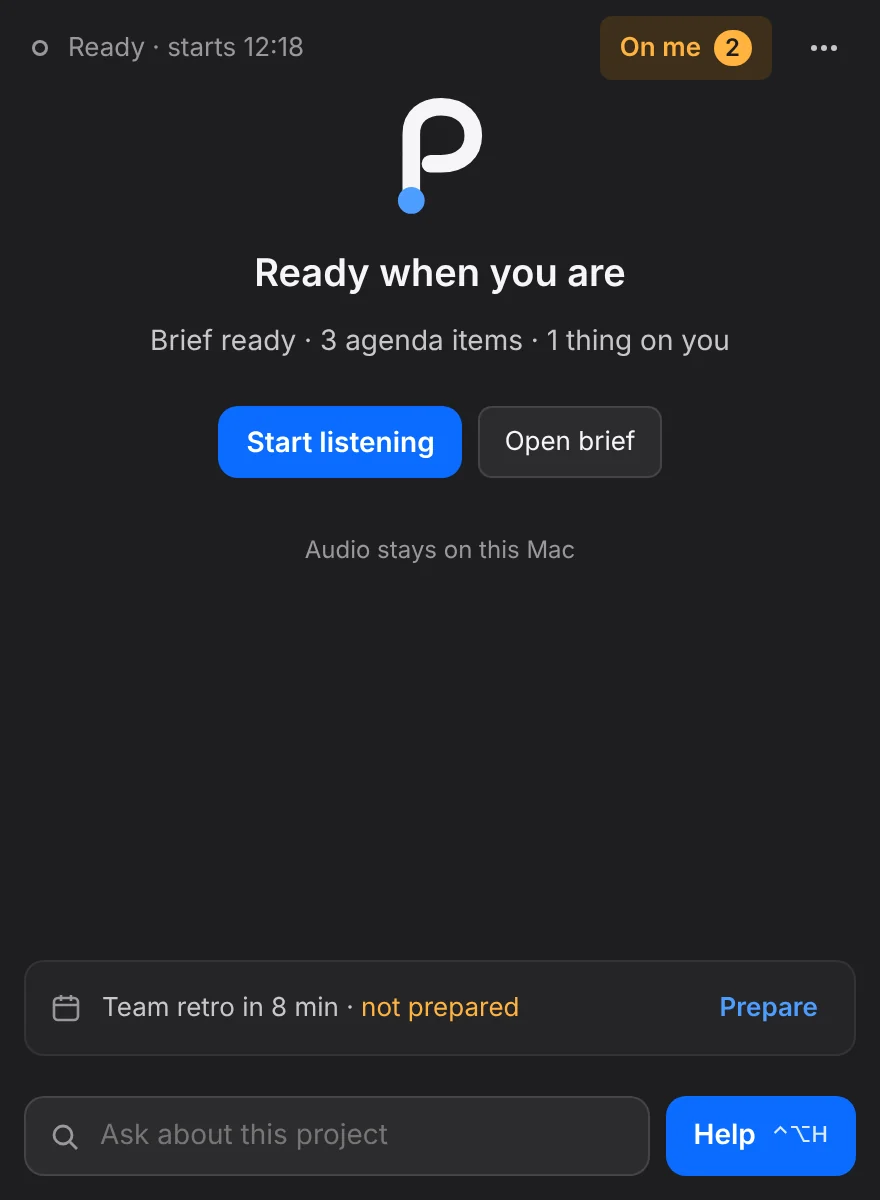
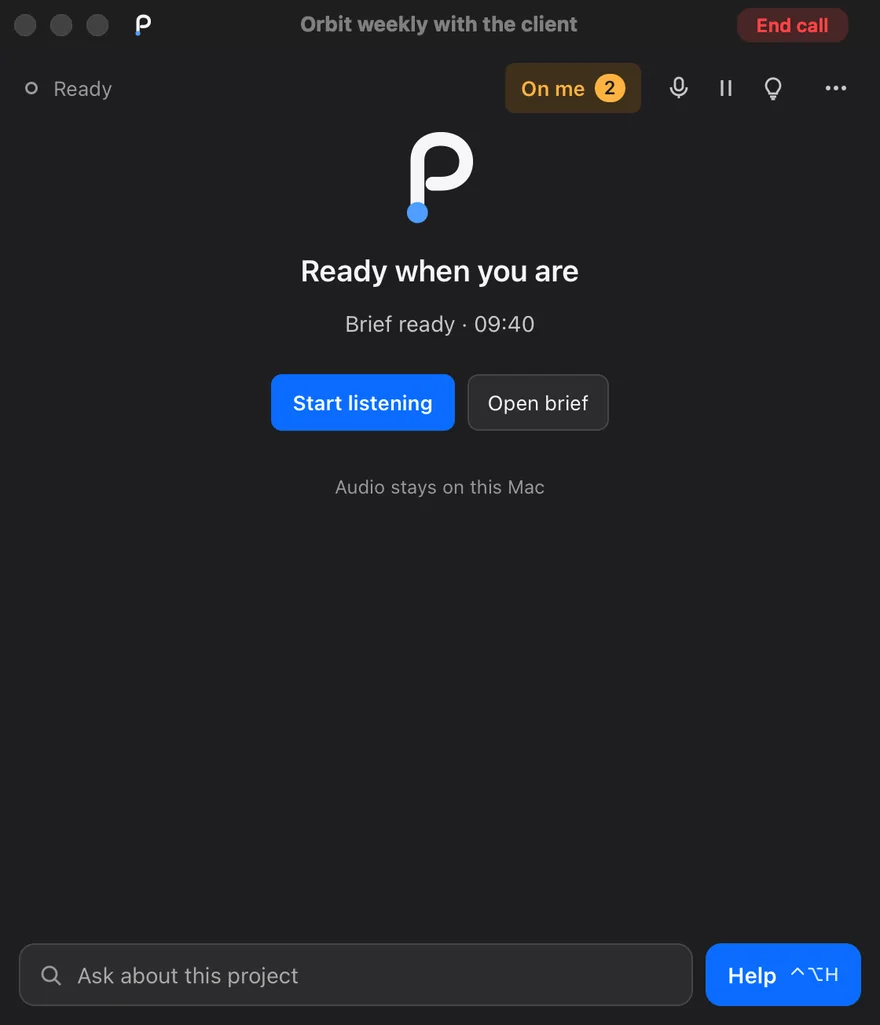
Pacenote 0.8.1 on the site
- New tips window screenshots from the app (top bar with mic, pause and
  proactive tips), EN and UK, both themes
- No mention of the old product name; status beta 0.8.1
- Changelog: 0.8.0 and 0.8.1 entries
- Download buttons point to Pacenote.dmg

Claude-Session: https://claude.ai/code/session_01YaXsSCtLqcqaKJL6Ng7Fga

diff --git a/src/content/pages/uk/changelog.md b/src/content/pages/uk/changelog.md
@@ -12,7 +12,8 @@ facts:
 
 | Версія | Дата | Що змінилось |
 |---|---|---|
-| Pacenote (раніше Live Tips) | 2026-10-28 | **Live Tips тепер Pacenote**, ваш штурман на дзвінках: нова назва, лого і [сторінка](/uk/pacenote/) у власному бренді, з дизайном 0.8 на демо-даних. Старі посилання `/live-tips/` ведуть на нові сторінки. Реліз 0.7.5 ще має стару назву; завантаження, репозиторій і файл скіла лишаються з тими самими іменами. |
+| Pacenote 0.8.1 beta | 2026-10-28 | **Вікно підказок:** мікрофон, пауза і проактивні підказки трьома іконками у верхній смузі, стан видно з першого погляду, комбінація клавіш у підказці над кнопкою. **Нова комбінація** Control-Option-L для проактивних підказок. |
+| Pacenote 0.8.0 beta | 2026-10-28 | **Pacenote**, ваш штурман на дзвінках: нова назва, лого і [сторінка](/uk/pacenote/), нове вікно підказок, Home, одна форма дзвінка, онбординг у чотири кроки і нові функції до, під час і після дзвінка. |
 | Live Tips 0.7.5 beta | 2026-10-28 | **Виправлено:** підготовка регулярної зустрічі позначала підготовленими всі її дати; тепер лише ту, для якої зроблена (або найближчу). |
 | Live Tips 0.7.4 beta | 2026-10-28 | **Лог правок:** кожна правка (картки, On me, підготовка, імена спікерів, назва дзвінка) записується, і кожна нова підготовка вчиться на правках цієї зустрічі і проєкту (скіл v56). **Без дублювання зустрічей:** дзвінок, що записується, не показується як наступний. **Хто що казав:** (i) біля голосу в Speakers показує його фрази. **Поверх усіх вікон** повернулось шпилькою в заголовку. Для регулярної зустрічі пропонуються спікери попередніх. Виправлення після QA. |
 | Live Tips 0.7.3 beta | 2026-10-28 | **Виправлено:** Start call з нової зустрічі календаря був без проєкту і з неактивною кнопкою. Тепер кнопка відкриває список проєктів і пояснює чому, а зустріч отримує проєкт, який востаннє використовувався з її календарем. |

diff --git a/src/content/pages/uk/pacenote.md b/src/content/pages/uk/pacenote.md
@@ -7,7 +7,7 @@ facts:
   - { k: Звук, v: "Лишається на вашому Маку" }
   - { k: Вартість, v: "Застосунок безкоштовний, Claude близько $0.2-0.8 за дзвінок" }
   - { k: Нотатки йдуть у, v: "Notion і папку проєкту" }
-  - { k: Статус, v: "бета 0.7.5, 0.8 у роботі" }
+  - { k: Статус, v: "бета 0.8.1" }
 ---
 
 <div class="aimix">
@@ -33,7 +33,7 @@ facts:
 <p class="card__tag">Для більшості</p>
 <h3 class="card__title">Pacenote для Мака</h3>
 <p class="card__text">Застосунок у рядку меню. Власний API-ключ Claude, жодного чату, який треба тримати відкритим під час дзвінка. Setup сам ставить модель розпізнавання.</p>
-<div class="btns"><a class="btn btn--primary" href="https://github.com/bodco/live-tips/releases/latest/download/LiveTips.dmg" download>Завантажити для Мака (.dmg)</a></div>
+<div class="btns"><a class="btn btn--primary" href="https://github.com/bodco/live-tips/releases/latest/download/Pacenote.dmg" download>Завантажити для Мака (.dmg)</a></div>
 <p class="smallprint">macOS 14.4+, Apple Silicon. Близько 2.5 ГБ локальних моделей при першому запуску. Бета без нотаризації: при першому запуску відкрийте System Settings > Privacy & Security і натисніть Open Anyway. <a href="https://github.com/bodco/live-tips/releases/latest/download/SHA256SUMS.txt">Контрольні суми SHA-256</a>.</p>
 </div>
 <div class="card">
@@ -58,7 +58,7 @@ facts:
 
 ## Як це виглядає
 
-Дизайн Pacenote 0.8 на демо-даних. Поточний реліз 0.7.5 ще виглядає як Live Tips; 0.8 приносить цей вигляд. Картинки йдуть за світлою чи темною темою сайту.
+Pacenote 0.8 на демо-даних. Картинки йдуть за світлою чи темною темою сайту.
 
 <div class="gallery">
 <figure class="ltshot ltshot--wide"><img class="ltshot__img ltshot--dark" src="/pacenote/shots/uk-tips-wide-dark.webp" alt="" loading="lazy" decoding="async" /><img class="ltshot__img ltshot--light" src="/pacenote/shots/uk-tips-wide-light.webp" alt="" loading="lazy" decoding="async" /><figcaption><b>На дзвінку.</b> Одна відповідь за раз, шрифтом, що читається з першого погляду, з фразою, яку сказати. Раніші підказки згортаються в один рядок; смужка агенди показує, що ще не підняли; транскрипт збоку підписує, хто що сказав.</figcaption></figure>

diff --git a/src/content/pages/en/pacenote.md b/src/content/pages/en/pacenote.md
@@ -7,7 +7,7 @@ facts:
   - { k: Audio, v: "Stays on your Mac" }
   - { k: Cost, v: "Free app, about $0.2-0.8 of Claude per call" }
   - { k: Notes go to, v: "Notion and your project folder" }
-  - { k: Status, v: "beta 0.7.5, 0.8 in progress" }
+  - { k: Status, v: "beta 0.8.1" }
 ---
 
 <div class="aimix">
@@ -33,7 +33,7 @@ facts:
 <p class="card__tag">For most people</p>
 <h3 class="card__title">Pacenote for Mac</h3>
 <p class="card__text">A menu bar app. Your own Claude API key, no chat to keep open during the call. Setup installs the speech model by itself.</p>
-<div class="btns"><a class="btn btn--primary" href="https://github.com/bodco/live-tips/releases/latest/download/LiveTips.dmg" download>Download for Mac (.dmg)</a></div>
+<div class="btns"><a class="btn btn--primary" href="https://github.com/bodco/live-tips/releases/latest/download/Pacenote.dmg" download>Download for Mac (.dmg)</a></div>
 <p class="smallprint">macOS 14.4+, Apple Silicon. About 2.5 GB of local models on the first run. Beta, not notarized: on the first launch open System Settings > Privacy & Security and press Open Anyway. <a href="https://github.com/bodco/live-tips/releases/latest/download/SHA256SUMS.txt">SHA-256 checksums</a>.</p>
 </div>
 <div class="card">
@@ -58,7 +58,7 @@ Both run the same rules and the same recorder, so the tips behave the same way. 
 
 ## How it looks
 
-The Pacenote 0.8 design on demo data. The current release, 0.7.5, still looks like Live Tips; 0.8 brings this look. The pictures follow the site's light or dark theme.
+Pacenote 0.8 on demo data. The pictures follow the site's light or dark theme.
 
 <div class="gallery">
 <figure class="ltshot ltshot--wide"><img class="ltshot__img ltshot--dark" src="/pacenote/shots/tips-wide-dark.webp" alt="" loading="lazy" decoding="async" /><img class="ltshot__img ltshot--light" src="/pacenote/shots/tips-wide-light.webp" alt="" loading="lazy" decoding="async" /><figcaption><b>On the call.</b> One answer at a time, in type you can read at a glance, with the phrase to say. Earlier tips fold into one line each; the agenda bar shows what is still not raised; the transcript on the side names who said what.</figcaption></figure>

diff --git a/src/content/pages/en/changelog.md b/src/content/pages/en/changelog.md
@@ -12,7 +12,8 @@ facts:
 
 | Version | Date | What changed |
 |---|---|---|
-| Pacenote (formerly Live Tips) | 2026-10-28 | **Live Tips is now Pacenote**, your co-driver on calls: a new name, logo and [page](/pacenote/) in its own brand, with the 0.8 design on demo data. Old `/live-tips/` links lead to the new pages. Release 0.7.5 still shows the old name; the downloads, the repository and the skill file keep their names. |
+| Pacenote 0.8.1 beta | 2026-10-28 | **Tips window:** microphone, pause and proactive tips as three icons in the top bar, each with its state visible at a glance and its shortcut in the tooltip. **New shortcut** Control-Option-L for proactive tips. |
+| Pacenote 0.8.0 beta | 2026-10-28 | **Pacenote**, your co-driver on calls: a new name, logo and [page](/pacenote/), a new tips window, Home, one call form, a four-step onboarding, and new features before, during and after the call. |
 | Live Tips 0.7.5 beta | 2026-10-28 | **Fix:** a regular meeting's preparation marked every occurrence as prepared; now only the one it was made for (or the next one). |
 | Live Tips 0.7.4 beta | 2026-10-28 | **Corrections log:** every correction (cards, On me, the preparation, speaker names, the call title) is logged, and each new preparation learns from the corrections of the same meeting and project (skill v56). **No duplicate meetings:** the call being recorded never shows as the next one. **Who said what:** (i) next to a voice in Speakers shows its phrases. **Always on top** is back as a pin in the title bar. Speakers of earlier meetings are offered for a regular meeting. Fixes from a QA pass. |
 | Live Tips 0.7.3 beta | 2026-10-28 | **Fix:** Start call from a new calendar meeting had no project and a disabled button. Now the button opens the project list and says why, and a meeting gets the project last used with its calendar. |

diff --git a/src/content/pages/uk/pacenote-privacy.md b/src/content/pages/uk/pacenote-privacy.md
@@ -8,7 +8,7 @@ facts:
   - { k: Телеметрія, v: "немає" }
 ---
 
-Ця політика охоплює **Pacenote** (раніше Live Tips): мак-аппку, рекордер, який вона запускає, і однойменний скіл Cowork. Сайт і решта PM Control Tower описані в [основній політиці конфіденційності](/uk/privacy/).
+Ця політика охоплює **Pacenote**: мак-аппку, рекордер, який вона запускає, і однойменний скіл Cowork. Сайт і решта PM Control Tower описані в [основній політиці конфіденційності](/uk/privacy/).
 
 Pacenote це особистий відкритий проєкт автора, Богдана Н. ("я"). Це не хостинговий сервіс: у мене немає вашого акаунта, мого сервера чи моєї бази даних. **Ви** вирішуєте, які дзвінки він слухає і куди йдуть результати, тож щодо людей на ваших дзвінках відповідальні за їхні дані саме ви (у термінах GDPR зазвичай контролер).
 

diff --git a/src/content/pages/uk/pacenote-details.md b/src/content/pages/uk/pacenote-details.md
@@ -134,7 +134,7 @@ facts:
 Той самий цикл live tips як нативний застосунок macOS у рядку меню, без чату Cowork, що мусить працювати весь дзвінок. Він записує дзвінок на вашому Маку, там же розпізнає його через Whisper на MLX і звертається до Claude API напряму з вашим власним API-ключем, що зберігається в Keychain macOS.
 
 <div class="btns" style="margin: 8px 0 24px;">
-<a class="btn btn--primary" href="https://github.com/bodco/live-tips/releases/latest/download/LiveTips.dmg" download>Завантажити Pacenote (.dmg)</a>
+<a class="btn btn--primary" href="https://github.com/bodco/live-tips/releases/latest/download/Pacenote.dmg" download>Завантажити Pacenote (.dmg)</a>
 </div>
 
 <div class="grid" style="--min: 240px;">

diff --git a/src/content/pages/en/pacenote-privacy.md b/src/content/pages/en/pacenote-privacy.md
@@ -8,7 +8,7 @@ facts:
   - { k: Telemetry, v: "none" }
 ---
 
-This policy covers **Pacenote** (formerly Live Tips): the Mac app, the recorder it runs and the Cowork skill of the same name. The website and the rest of PM Control Tower are covered by the [main privacy policy](/privacy/).
+This policy covers **Pacenote**: the Mac app, the recorder it runs and the Cowork skill of the same name. The website and the rest of PM Control Tower are covered by the [main privacy policy](/privacy/).
 
 Pacenote is a personal open-source project of its author, Bohdan N. ("I", "me"). It is not a hosted service: there is no account with me, no server of mine and no database of mine. **You** decide which calls it listens to and where the results go, so for the people on your calls you are the one responsible for their data (in GDPR terms, usually the controller).
 

diff --git a/src/content/pages/en/pacenote-details.md b/src/content/pages/en/pacenote-details.md
@@ -134,7 +134,7 @@ A wrap-up in the chat: action items with owners and dates, new requests, your co
 The same tips loop as a native macOS app in the menu bar, without a Cowork chat running during the call. It records the call on your Mac, transcribes it there with Whisper on MLX and calls the Claude API directly with your own API key, kept in the macOS Keychain.
 
 <div class="btns" style="margin: 8px 0 24px;">
-<a class="btn btn--primary" href="https://github.com/bodco/live-tips/releases/latest/download/LiveTips.dmg" download>Download Pacenote for Mac (.dmg)</a>
+<a class="btn btn--primary" href="https://github.com/bodco/live-tips/releases/latest/download/Pacenote.dmg" download>Download Pacenote for Mac (.dmg)</a>
 </div>
 
 <div class="grid" style="--min: 240px;">

diff --git a/src/content/pages/uk/pacenote-terms.md b/src/content/pages/uk/pacenote-terms.md
@@ -8,7 +8,7 @@ facts:
   - { k: Статус, v: "бета" }
 ---
 
-Ці умови охоплюють **Pacenote** (раніше Live Tips): мак-аппку, рекордер і скіл Cowork, з кодом у [github.com/bodco/live-tips](https://github.com/bodco/live-tips). Сайт і решта PM Control Tower мають [власні умови](/uk/terms/).
+Ці умови охоплюють **Pacenote**: мак-аппку, рекордер і скіл Cowork, з кодом у [github.com/bodco/live-tips](https://github.com/bodco/live-tips). Сайт і решта PM Control Tower мають [власні умови](/uk/terms/).
 
 ## Ліцензія
 

diff --git a/src/content/pages/en/pacenote-terms.md b/src/content/pages/en/pacenote-terms.md
@@ -8,7 +8,7 @@ facts:
   - { k: Status, v: "beta" }
 ---
 
-These terms cover **Pacenote** (formerly Live Tips): the Mac app, the recorder and the Cowork skill, with the code at [github.com/bodco/live-tips](https://github.com/bodco/live-tips). The website and the rest of PM Control Tower have [their own terms](/terms/).
+These terms cover **Pacenote**: the Mac app, the recorder and the Cowork skill, with the code at [github.com/bodco/live-tips](https://github.com/bodco/live-tips). The website and the rest of PM Control Tower have [their own terms](/terms/).
 
 ## Licence
 
